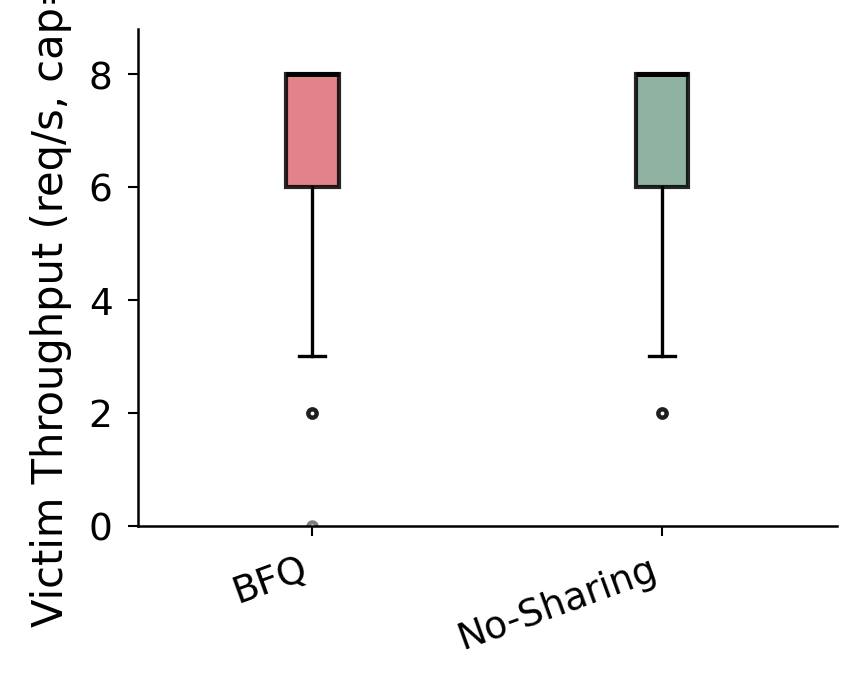
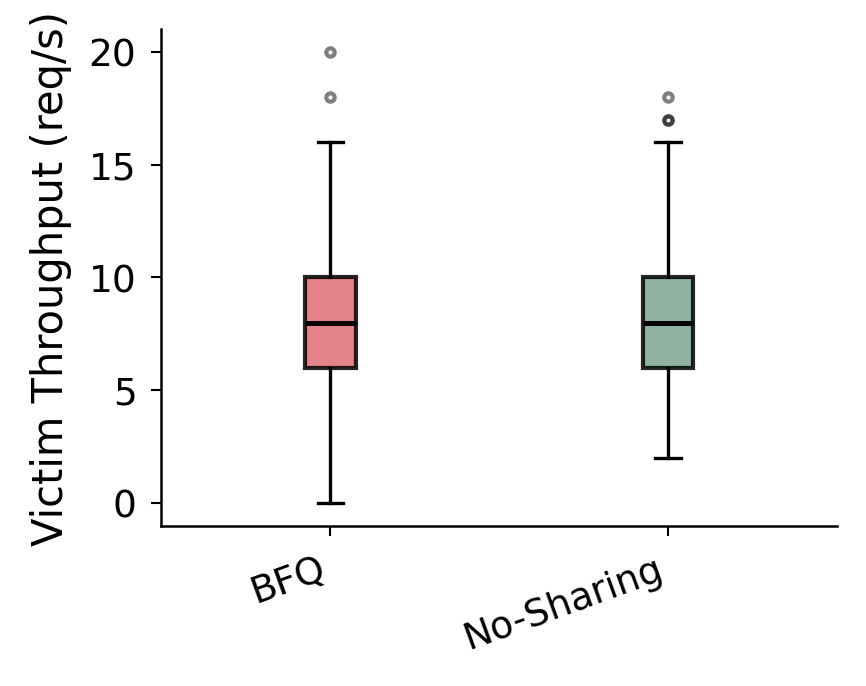
added new plots for noisy_neighbor tsfm

diff --git a/serving/experiments/noisy_neighbor/tsfm/plot.py b/serving/experiments/noisy_neighbor/tsfm/plot.py
@@ -1368,9 +1368,8 @@ def plot_victim_throughput_boxplot(
     out_path: Path,
     max_time: Optional[float] = None,
     bin_size_s: float = 1.0,
-    cap_rps: float = 8.0,
 ) -> None:
-    """Box plot: per-second victim throughput per method, capped at cap_rps."""
+    """Box plot: distribution of per-second victim throughput per method."""
     methods_data: Dict[str, np.ndarray] = {}
 
     for policy, d in policy_dirs.items():
@@ -1382,7 +1381,7 @@ def plot_victim_throughput_boxplot(
         times = np.array([t + lat / 1000.0 for t, lat in v_recs])
         end   = max_time if max_time is not None else float(times.max())
         _, rps = _bin_rate(times, end, bin_size_s)
-        methods_data[policy] = np.minimum(rps, cap_rps)
+        methods_data[policy] = rps
 
     if not methods_data:
         print("[Plot] No data for victim throughput box plot — skipping")
@@ -1404,8 +1403,7 @@ def plot_victim_throughput_boxplot(
         patch.set_alpha(0.85)
     ax.set_xticks(range(1, len(methods) + 1))
     ax.set_xticklabels(labels, rotation=20, ha="right")
-    ax.set_ylabel(f"Victim Throughput (req/s, cap={cap_rps:.0f})")
-    ax.set_ylim(0, cap_rps * 1.1)
+    ax.set_ylabel("Victim Throughput (req/s)")
     fig.tight_layout(pad=0.4)
     save_figure(fig, out_path)
     plt.close(fig)
@@ -1641,6 +1639,7 @@ def main() -> int:
         max_time=max_time,
         bin_size_s=args.bin_size_s,
     )
+
 
     # 10. Victim SLO violation rate per phase (isolation story)
     if phase_bounds:
